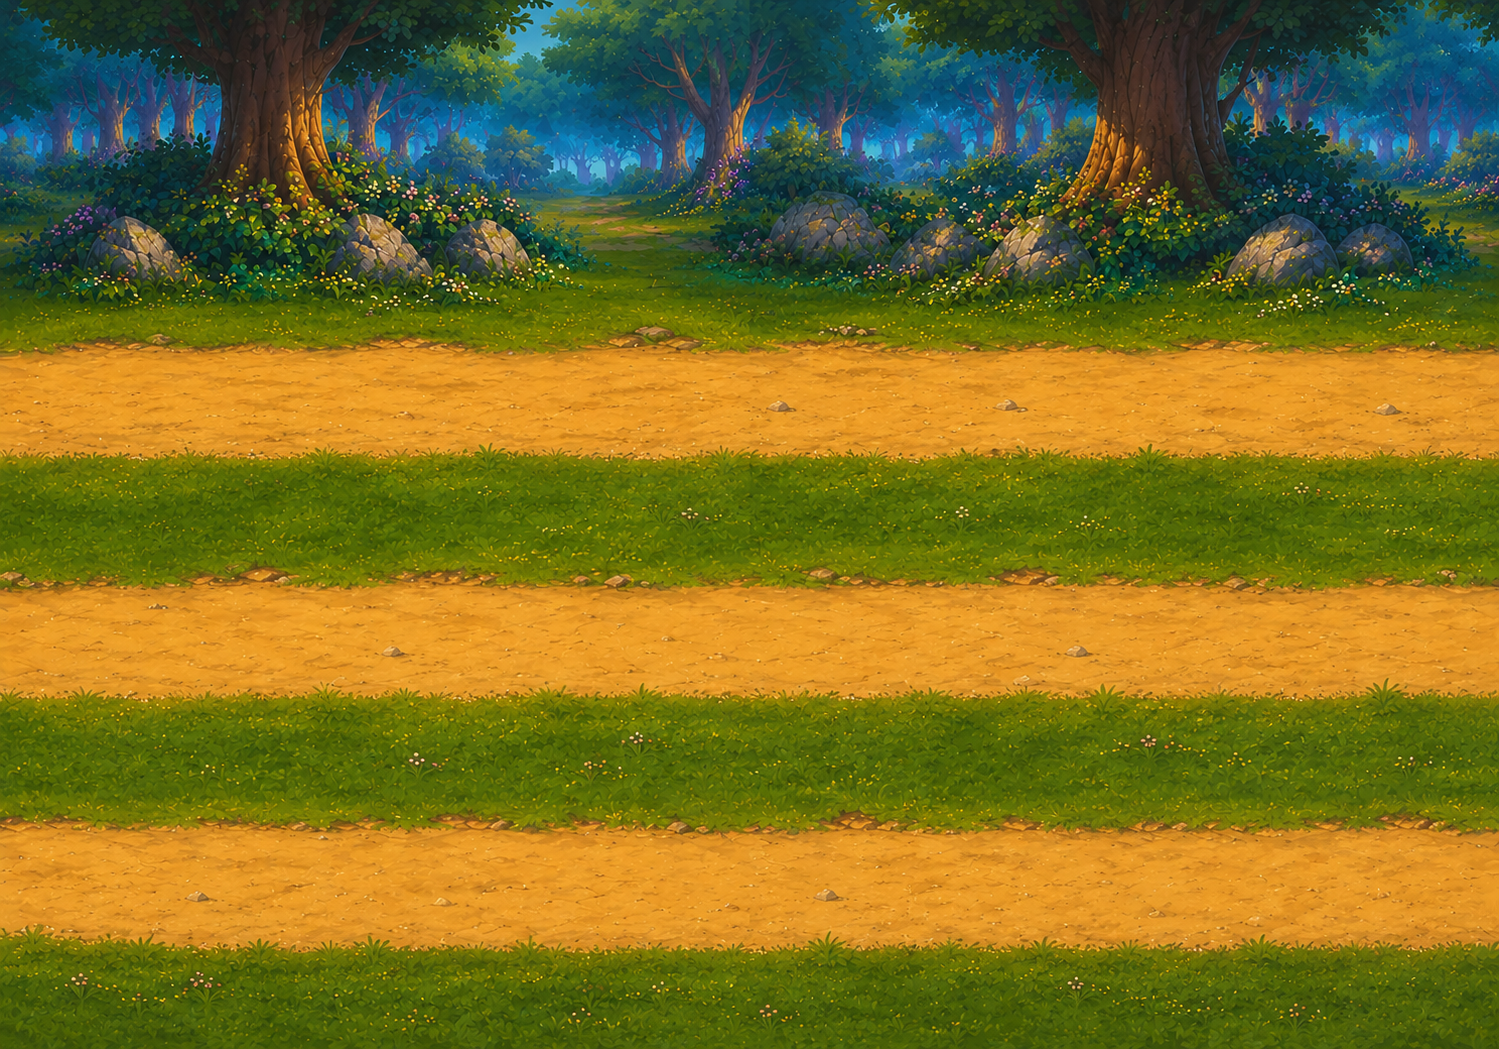
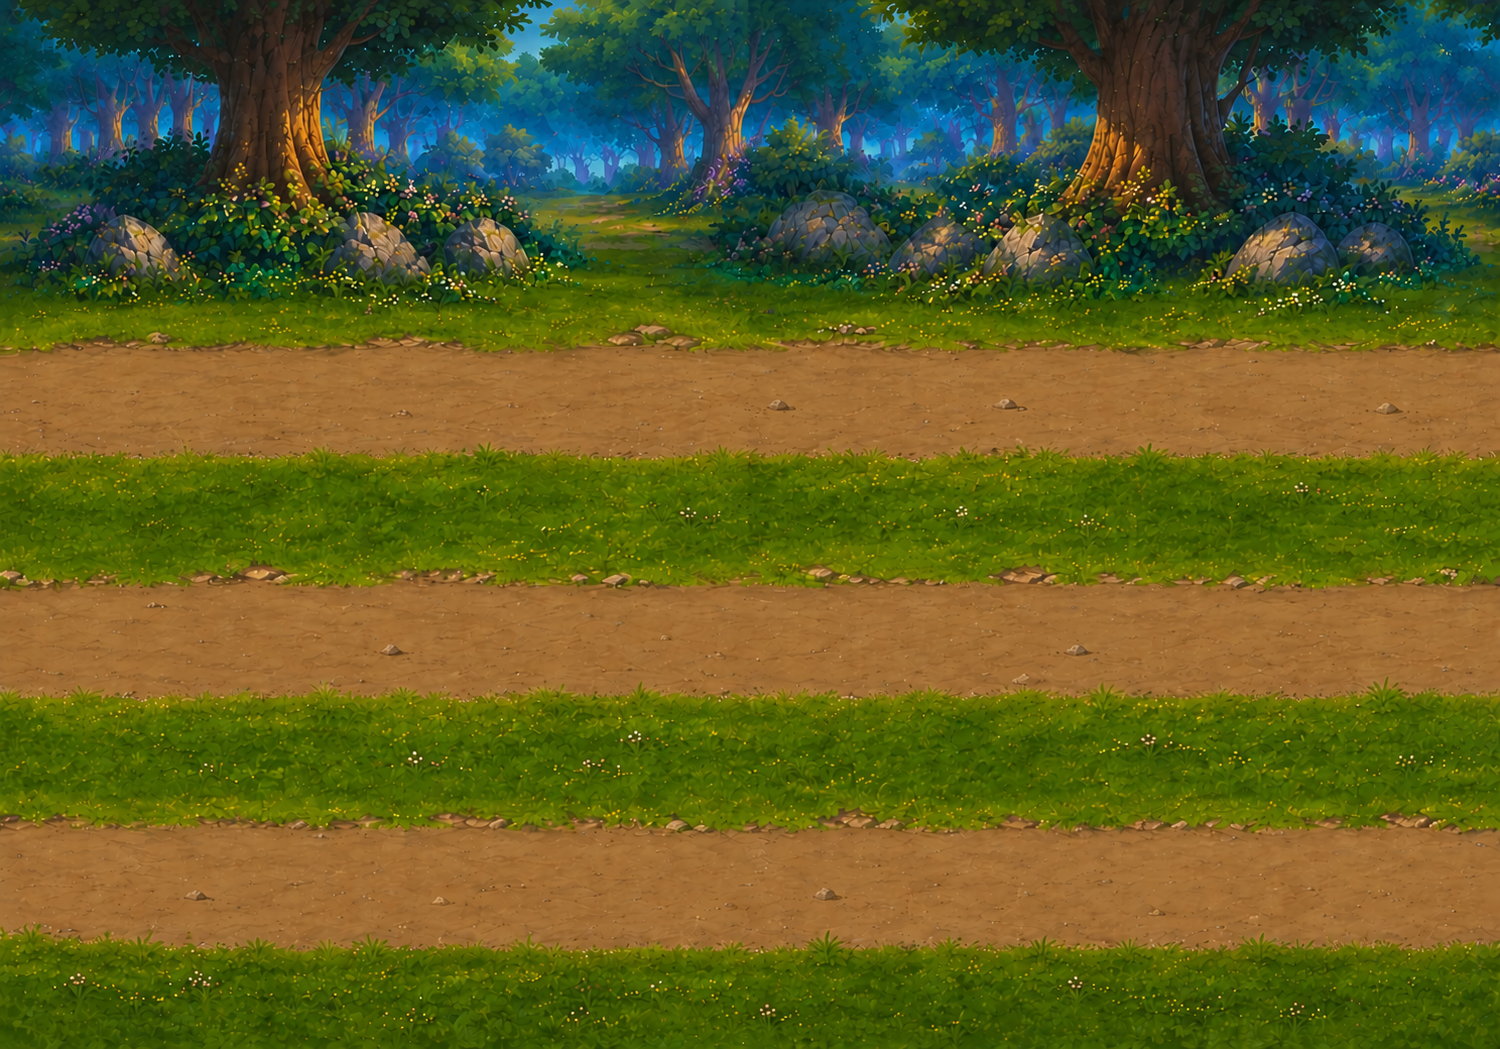
Implementação da coleta de lanternas e HUD de pontuação

diff --git a/main.py b/main.py
@@ -1,4 +1,5 @@
 import pygame
+import random
 from recursos.funcoes import limpar_tela, inicializar_log, salvar_log, maior_pontuador
 
 limpar_tela()
@@ -27,6 +28,10 @@ fundo = pygame.image.load("bases/fundo.jpg")
 fundo = pygame.transform.scale(fundo, (1000,700))
 pascal = pygame.image.load("bases/pascal.png")
 pascal = pygame.transform.scale(pascal, (105,75))
+lanterna = pygame.image.load("bases/lanterna.png")
+lanterna = pygame.transform.scale(lanterna, (42,60))
+flor = pygame.image.load("bases/flor.png")
+flor = pygame.transform.scale(flor, (40,60))
 
 def tela_inicio():
     maiorNome, maiorPontos, dataJogada, horaJogada = maior_pontuador()
@@ -85,6 +90,10 @@ def jogo():
     linhas = [232,308,390,470,557]
     linhaAtual = 2
     posicaoYPascal = linhas[linhaAtual]
+    pontos = 0
+    fonteHUD = pygame.font.Font("bases/EBGaramond.ttf", 30)
+    posicaoXLanterna = 1200
+    posicaoYLanterna = random.choice(linhas)
 
 
     while True:
@@ -105,17 +114,37 @@ def jogo():
 
 
         posicaoYPascal = linhas[linhaAtual]
+        retanguloPascal = pygame.Rect(posicaoXPascal, posicaoYPascal, 105,75)
+        retanguloLanterna = pygame.Rect(posicaoXLanterna, posicaoYLanterna, 42,60)
+
+        if retanguloPascal.colliderect(retanguloLanterna):
+            pontos += 1
+            posicaoXLanterna = random.randint(1200,1800)
+            posicaoYLanterna = random.choice(linhas)
+        if pontos >= 10:
+            velocidadeFundo = 4
+        if pontos >= 20:
+            velocidadeFundo = 5
+        if pontos >= 30:
+            velocidadeFundo = 6
 
         fundoX1 -= velocidadeFundo
         fundoX2 -= velocidadeFundo
+        posicaoXLanterna -= velocidadeFundo
         if fundoX1 <= -1000:
             fundoX1 = 1000
         if fundoX2 <= -1000:
             fundoX2 = 1000
+        if posicaoXLanterna < -100:
+            posicaoXLanterna = random.randint(1200,1800)
+            posicaoYLanterna = random.choice(linhas)
+
         tela.blit(fundo, (fundoX1,0))
         tela.blit(fundo, (fundoX2,0))
-
+        tela.blit(lanterna, (posicaoXLanterna, posicaoYLanterna))
         tela.blit(pascal, (posicaoXPascal, posicaoYPascal))
+        textoPontos = fonteHUD.render(f"Pontos: {pontos}", True, branco)
+        tela.blit(textoPontos, (20,20))
 
         pygame.display.update()
         relogio.tick(60)
@@ -123,17 +152,3 @@ def jogo():
 
 tela_inicio()    
 jogo()
-
-executando = True
-while executando:
-    for evento in pygame.event.get():
-        if evento.type == pygame.QUIT:
-            executando = False
-        if evento.type == pygame.KEYDOWN:
-            if evento.key == pygame.K_ESCAPE:
-                executando = False
-    
-    tela.fill(branco)
-    pygame.display.update()
-    relogio.tick(60)
-pygame.quit()